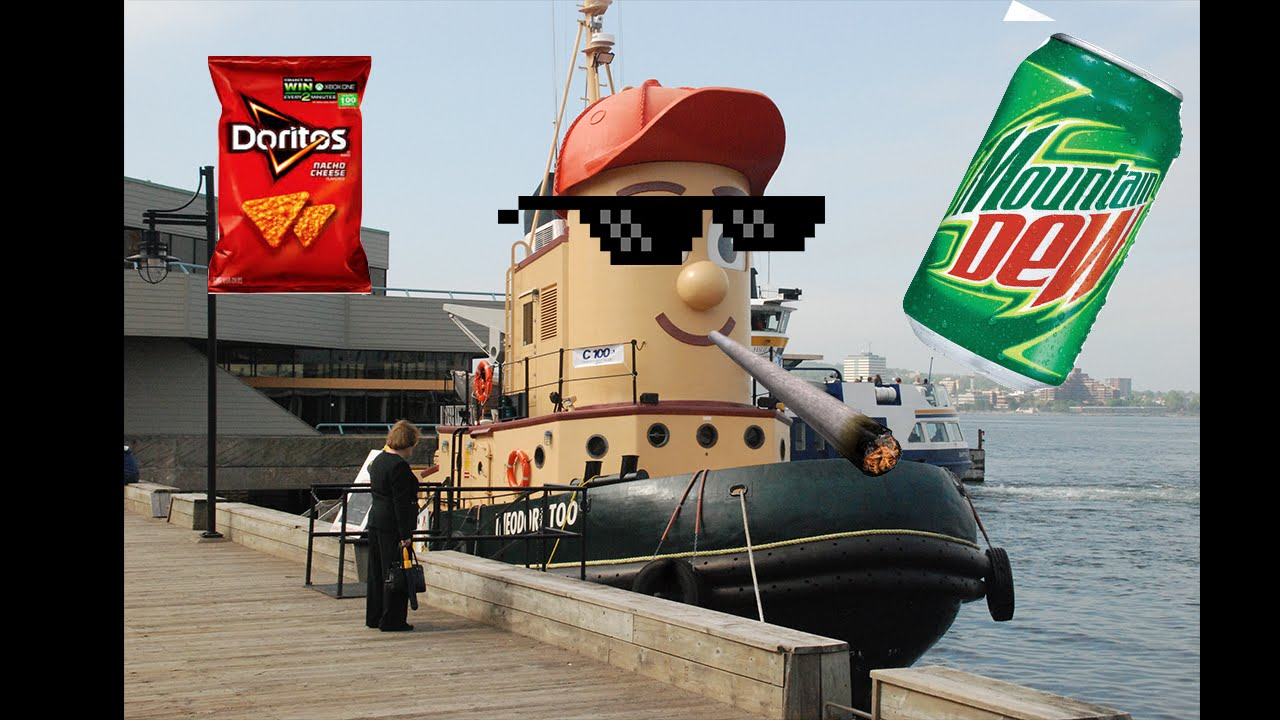
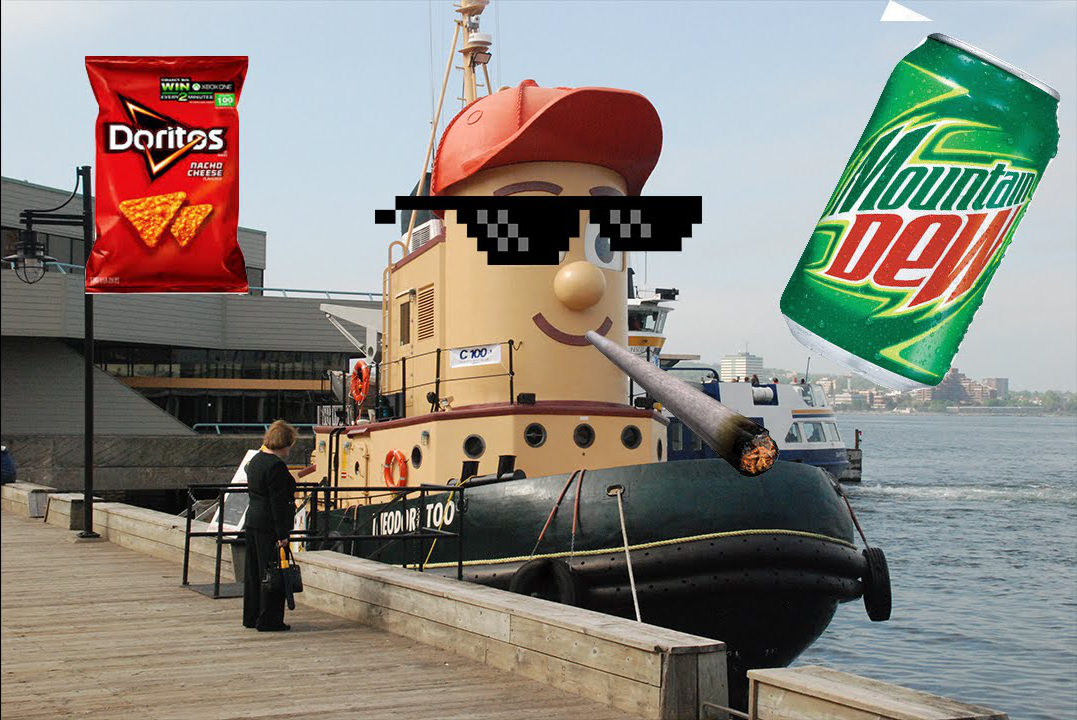
New menu images

diff --git a/src/main/java/com/bitdecay/ludum/dare/LudumDareGame.java b/src/main/java/com/bitdecay/ludum/dare/LudumDareGame.java
@@ -4,14 +4,10 @@ import com.badlogic.gdx.Game;
 import com.badlogic.gdx.assets.AssetManager;
 import com.badlogic.gdx.assets.loaders.resolvers.InternalFileHandleResolver;
 import com.bitdecay.ludum.dare.screens.GameScreen;
-import com.bitdecay.ludum.dare.screens.SplashScreen;
 import com.bytebreakstudios.animagic.texture.AnimagicTextureAtlas;
 import com.bytebreakstudios.animagic.texture.AnimagicTextureAtlasLoader;
 
 public class LudumDareGame extends Game {
-    public static boolean MUSIC_ON = true;
-    final static int NUM_PLAYER_ASSETS = 5;
-
     public static AssetManager assetManager = new AssetManager();
     public static AnimagicTextureAtlas atlas;
 

diff --git a/src/main/java/com/bitdecay/ludum/dare/screens/CreditsScreen.java b/src/main/java/com/bitdecay/ludum/dare/screens/CreditsScreen.java
@@ -16,10 +16,6 @@ import com.bitdecay.ludum.dare.ResourceDir;
 import com.bitdecay.ludum.dare.control.InputUtil;
 import com.bitdecay.ludum.dare.control.Xbox360Pad;
 
-
-/**
- * Created by mwingfield on 8/6/15.
- */
 public class CreditsScreen implements Screen {
 
     private static String SPACE_AFTER_TITLE = "\n\n\n";
@@ -81,7 +77,7 @@ public class CreditsScreen implements Screen {
         lblCredits.setFontScale(6);
         lblCredits.setFillParent(true);
         lblCredits.setAlignment(Align.center);
-        lblCredits.setColor(Color.DARK_GRAY);
+        lblCredits.setColor(Color.WHITE);
 
 
         stage.addActor(background);

diff --git a/src/main/java/com/bitdecay/ludum/dare/screens/SplashScreen.java b/src/main/java/com/bitdecay/ludum/dare/screens/SplashScreen.java
@@ -23,7 +23,7 @@ public class SplashScreen implements Screen {
     public SplashScreen(LudumDareGame game){
         this.game = game;
         stage = new Stage();
-        ldWallpaper = new Image(LudumDareGame.atlas.findRegion("buzzkill/dankest_boat"));
+        ldWallpaper = new Image(LudumDareGame.atlas.findRegion("splash/ld36Splash"));
         ldWallpaper.setBounds(0, 0, Gdx.graphics.getWidth(), Gdx.graphics.getHeight());
         bdWallpaper = new Image(LudumDareGame.atlas.findRegion("splash/bitDecay"));
         bdWallpaper.setBounds(0, 0, Gdx.graphics.getWidth(), Gdx.graphics.getHeight());

diff --git a/src/main/java/com/bitdecay/ludum/dare/screens/MainMenuScreen.java b/src/main/java/com/bitdecay/ludum/dare/screens/MainMenuScreen.java
@@ -40,7 +40,7 @@ public class MainMenuScreen implements Screen {
 
         Skin skin = new Skin(ResourceDir.internal("skins/skin.json"));
 
-        background = new Image(LudumDareGame.atlas.findRegion("buzzkill/dankest_boat"));
+        background = new Image(LudumDareGame.atlas.findRegion("splash/TitleScreen"));
         background.setSize(Gdx.graphics.getWidth(), Gdx.graphics.getHeight());
 
         title = new Label("Crystal", skin);
